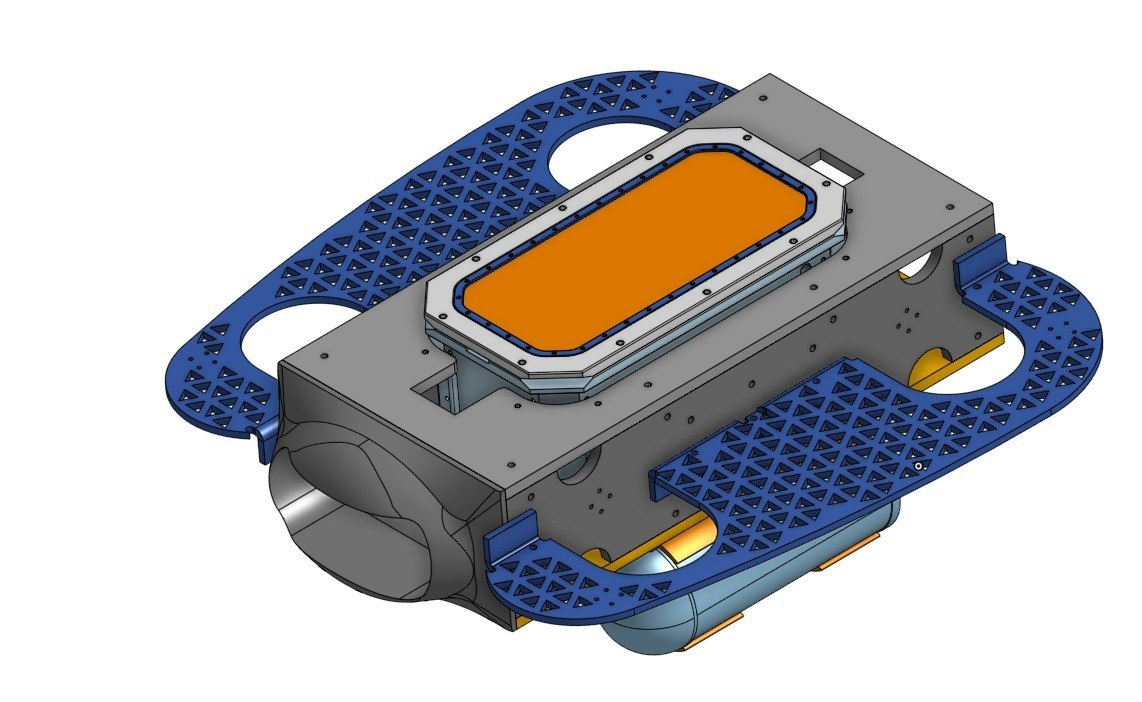
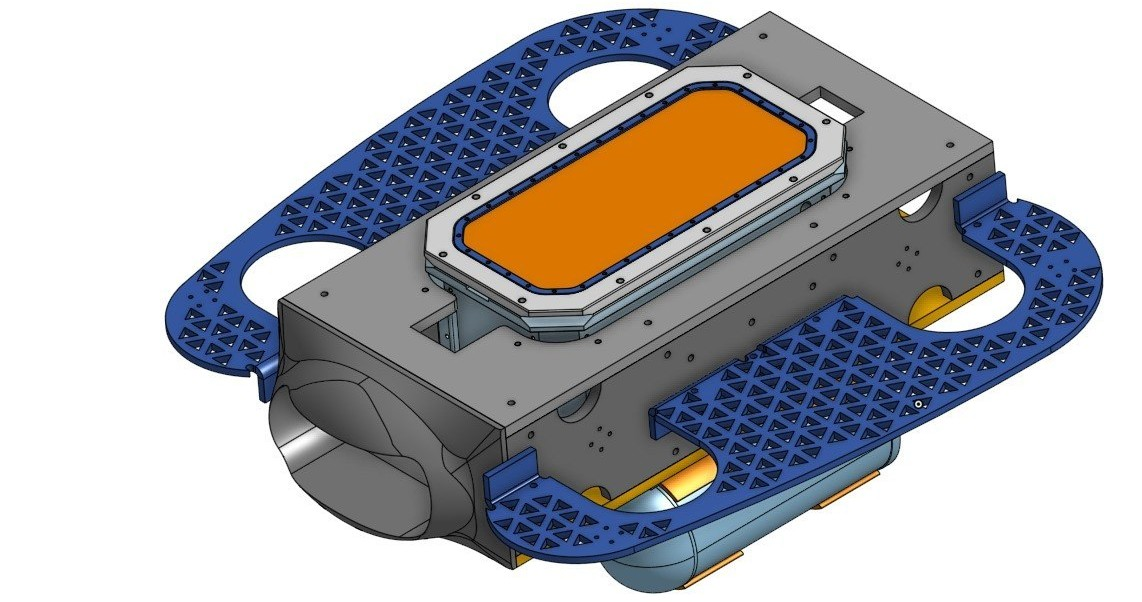
updated kraken subsystems

diff --git a/src/RobotX2026SubsystemPage.jsx b/src/RobotX2026SubsystemPage.jsx
@@ -437,7 +437,7 @@ function getKrakenMechanicalSections() {
       images: [
         {
           src: '/images/robotx2026/mechanical-subsystems/kraken-current-design.jpg',
-          caption: 'Kraken bottom view with underside battery integration.'
+          caption: 'Kraken with underside battery integration.'
         },
       ]
     },
@@ -447,7 +447,7 @@ function getKrakenMechanicalSections() {
       bullets: ['Guide shaft and compression spring absorb collision shock.', 'Compliant travel helps protect against non-perpendicular impacts.', 'Press-fit rubber boot supports tool-less magnet replacement.'],
       images: [
         {
-          src: '/images/robotx2026/mechanical-subsystems/kraken-magnetic-probe.jpg',
+          src: '/images/robotx2026/mechanical-subsystems/magnetic-probe-edited.jpg',
           caption: 'Kraken\'s magnetic probe for Task 2.'
         }
       ]

diff --git a/src/Navbar.jsx b/src/Navbar.jsx
@@ -9,8 +9,8 @@ const sections = [
       { id: 'vehicles-main', label: 'Vehicles', path: '/vehicles' },
       { id: 'poseidon', label: 'Poseidon 2026', path: '/poseidon' },
       { id: 'phoenix', label: 'Phoenix 2026', path: '/phoenix' },
-      { id: 'hydra', label: 'Hydra 2026', path: '/hydra' },
       { id: 'kraken', label: 'Kraken 2026', path: '/kraken' },
+      { id: 'hydra', label: 'Hydra 2026', path: '/hydra' },
       { id: 'kevin', label: 'Kevin 2025', path: '/kevin' },
       { id: 'lucy', label: 'Lucy 2025', path: '/lucy' },
     ]

diff --git a/src/KrakenPage.jsx b/src/KrakenPage.jsx
@@ -432,10 +432,10 @@ function KrakenPage() {
 
           <div className="flex justify-center mt-10">
           <Link
-          to="/robosub2026"
+          to="/robotx2026"
           className="bg-[#d73a1a] hover:bg-orange-600 text-white font-semibold px-8 py-3 rounded-lg transition-all duration-200"
           >
-          View our RoboSub 2026 Development
+          View our RobotX 2026 Development
           </Link>
           </div>
           </div>
